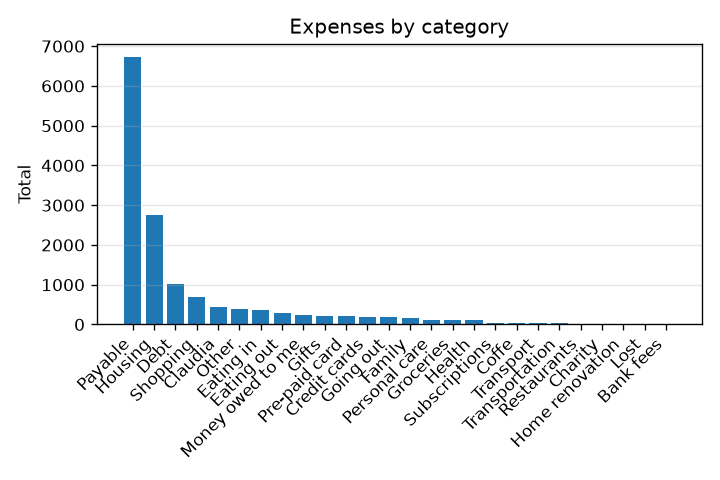
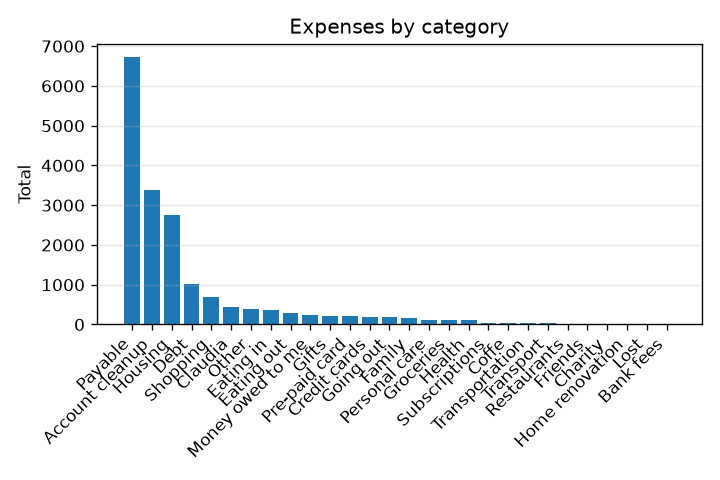
.

Changed region(s): [[0.0917, 0.375, 0.9167, 0.9688], [0.0611, 0.875, 0.0917, 0.9375], [0.825, 0.8125, 0.8556, 0.8438]]

diff --git a/static/css/phone/phone.css b/static/css/phone/phone.css
@@ -869,3 +869,38 @@ html.phone-native-active .grouped-scope-switcher .scope-switcher-empty {
 html.phone-native-active.phone-scope-menu-open .phone-bottom-dock {
   z-index: 2147481000 !important;
 }
+
+
+/* v17: keep the account scope selector in normal page flow on phone.
+   The dropdown itself remains fixed above cards, but the chip bar no longer
+   sticks over dashboard content or leaves a reserved blank gap. */
+html.phone-native-active .compact-scope-switcher.grouped-scope-switcher {
+  position: relative !important;
+  top: auto !important;
+  z-index: 120 !important;
+  margin: 0 0 0.55rem !important;
+  transform: none !important;
+}
+
+html.phone-native-active .grouped-scope-switcher .scope-switcher-grouped-links {
+  position: relative !important;
+  z-index: 121 !important;
+}
+
+html.phone-native-active .grouped-scope-switcher .scope-switcher-group[open] {
+  z-index: 2147483400 !important;
+}
+
+html.phone-native-active .grouped-scope-switcher .scope-switcher-group[open] .scope-switcher-group-menu {
+  position: fixed !important;
+  top: calc(var(--phone-top-height, 52px) + env(safe-area-inset-top, 0px) + 8px) !important;
+  left: max(10px, env(safe-area-inset-left, 0px)) !important;
+  right: max(10px, env(safe-area-inset-right, 0px)) !important;
+  max-height: min(52vh, 380px) !important;
+  z-index: 2147483600 !important;
+}
+
+html.phone-native-active.phone-scope-menu-open .app-content-stage,
+html.phone-native-active.phone-scope-menu-open .container {
+  overflow: visible !important;
+}

diff --git a/money_manager/web/templates/settings/unlock.html b/money_manager/web/templates/settings/unlock.html
@@ -329,6 +329,28 @@
       text-decoration: none;
     }
 
+
+    .powered-by {
+      margin-top: 0.95rem;
+      text-align: center;
+      color: rgba(203, 213, 225, 0.82);
+      font-size: 0.88rem;
+      font-weight: 700;
+    }
+
+    .powered-by a {
+      color: #93c5fd;
+      font-weight: 950;
+      text-decoration: none;
+    }
+
+    .powered-by a:hover,
+    .powered-by a:focus {
+      color: #bae6fd;
+      text-decoration: underline;
+      outline: none;
+    }
+
     @media (max-width: 1120px) {
       .vault-shell {
         grid-template-columns: minmax(0, 0.92fr) minmax(300px, 410px);
@@ -510,6 +532,7 @@
           Recovery can help you prepare a support request, but it cannot reset an encrypted local vault without the correct password or a usable backup.
         </div>
       </form>
+      <p class="powered-by">Powered by <a href="https://github.com/FiengoKineton" target="_blank" rel="noopener noreferrer">Giuseppe Fiengo</a></p>
     </section>
   </main>
 </body>

diff --git a/money_manager/web/templates/base.html b/money_manager/web/templates/base.html
@@ -91,7 +91,7 @@
   <link rel="stylesheet" href="{{ url_for('static', filename='css/web/web.css') }}?v=smart-save-2">
   <link rel="stylesheet" href="{{ url_for('static', filename='css/shared/instant-nav.css') }}?v=instant-nav-1">
   <link rel="stylesheet" href="{{ url_for('static', filename='css/shared/ui-refinement.css') }}?v=ui-account-brand-3">
-  <link rel="stylesheet" href="{{ url_for('static', filename='css/phone/phone.css') }}?v=phone-ui-16-scope-menu">
+  <link rel="stylesheet" href="{{ url_for('static', filename='css/phone/phone.css') }}?v=phone-ui-17-scope-flow">
   {% set plotly_endpoints = [
     'dashboard.index',
     'analysis.analysis',
@@ -419,7 +419,7 @@
   <script src="{{ url_for('static', filename='js/shared/smart-floating-submit.js') }}?v=smart-save-3" defer></script>
   <script src="{{ url_for('static', filename='js/shared/notifications.js') }}?v=notifications-2"></script>
   <script src="{{ url_for('static', filename='js/web/web-shell.js') }}?v=wallet-shell-18"></script>
-  <script src="{{ url_for('static', filename='js/phone/phone-shell.js') }}?v=phone-ui-16-scope-menu" defer></script>
+  <script src="{{ url_for('static', filename='js/phone/phone-shell.js') }}?v=phone-ui-17-scope-flow" defer></script>
   {% block scripts %}{% endblock %}
 </body>
 </html>